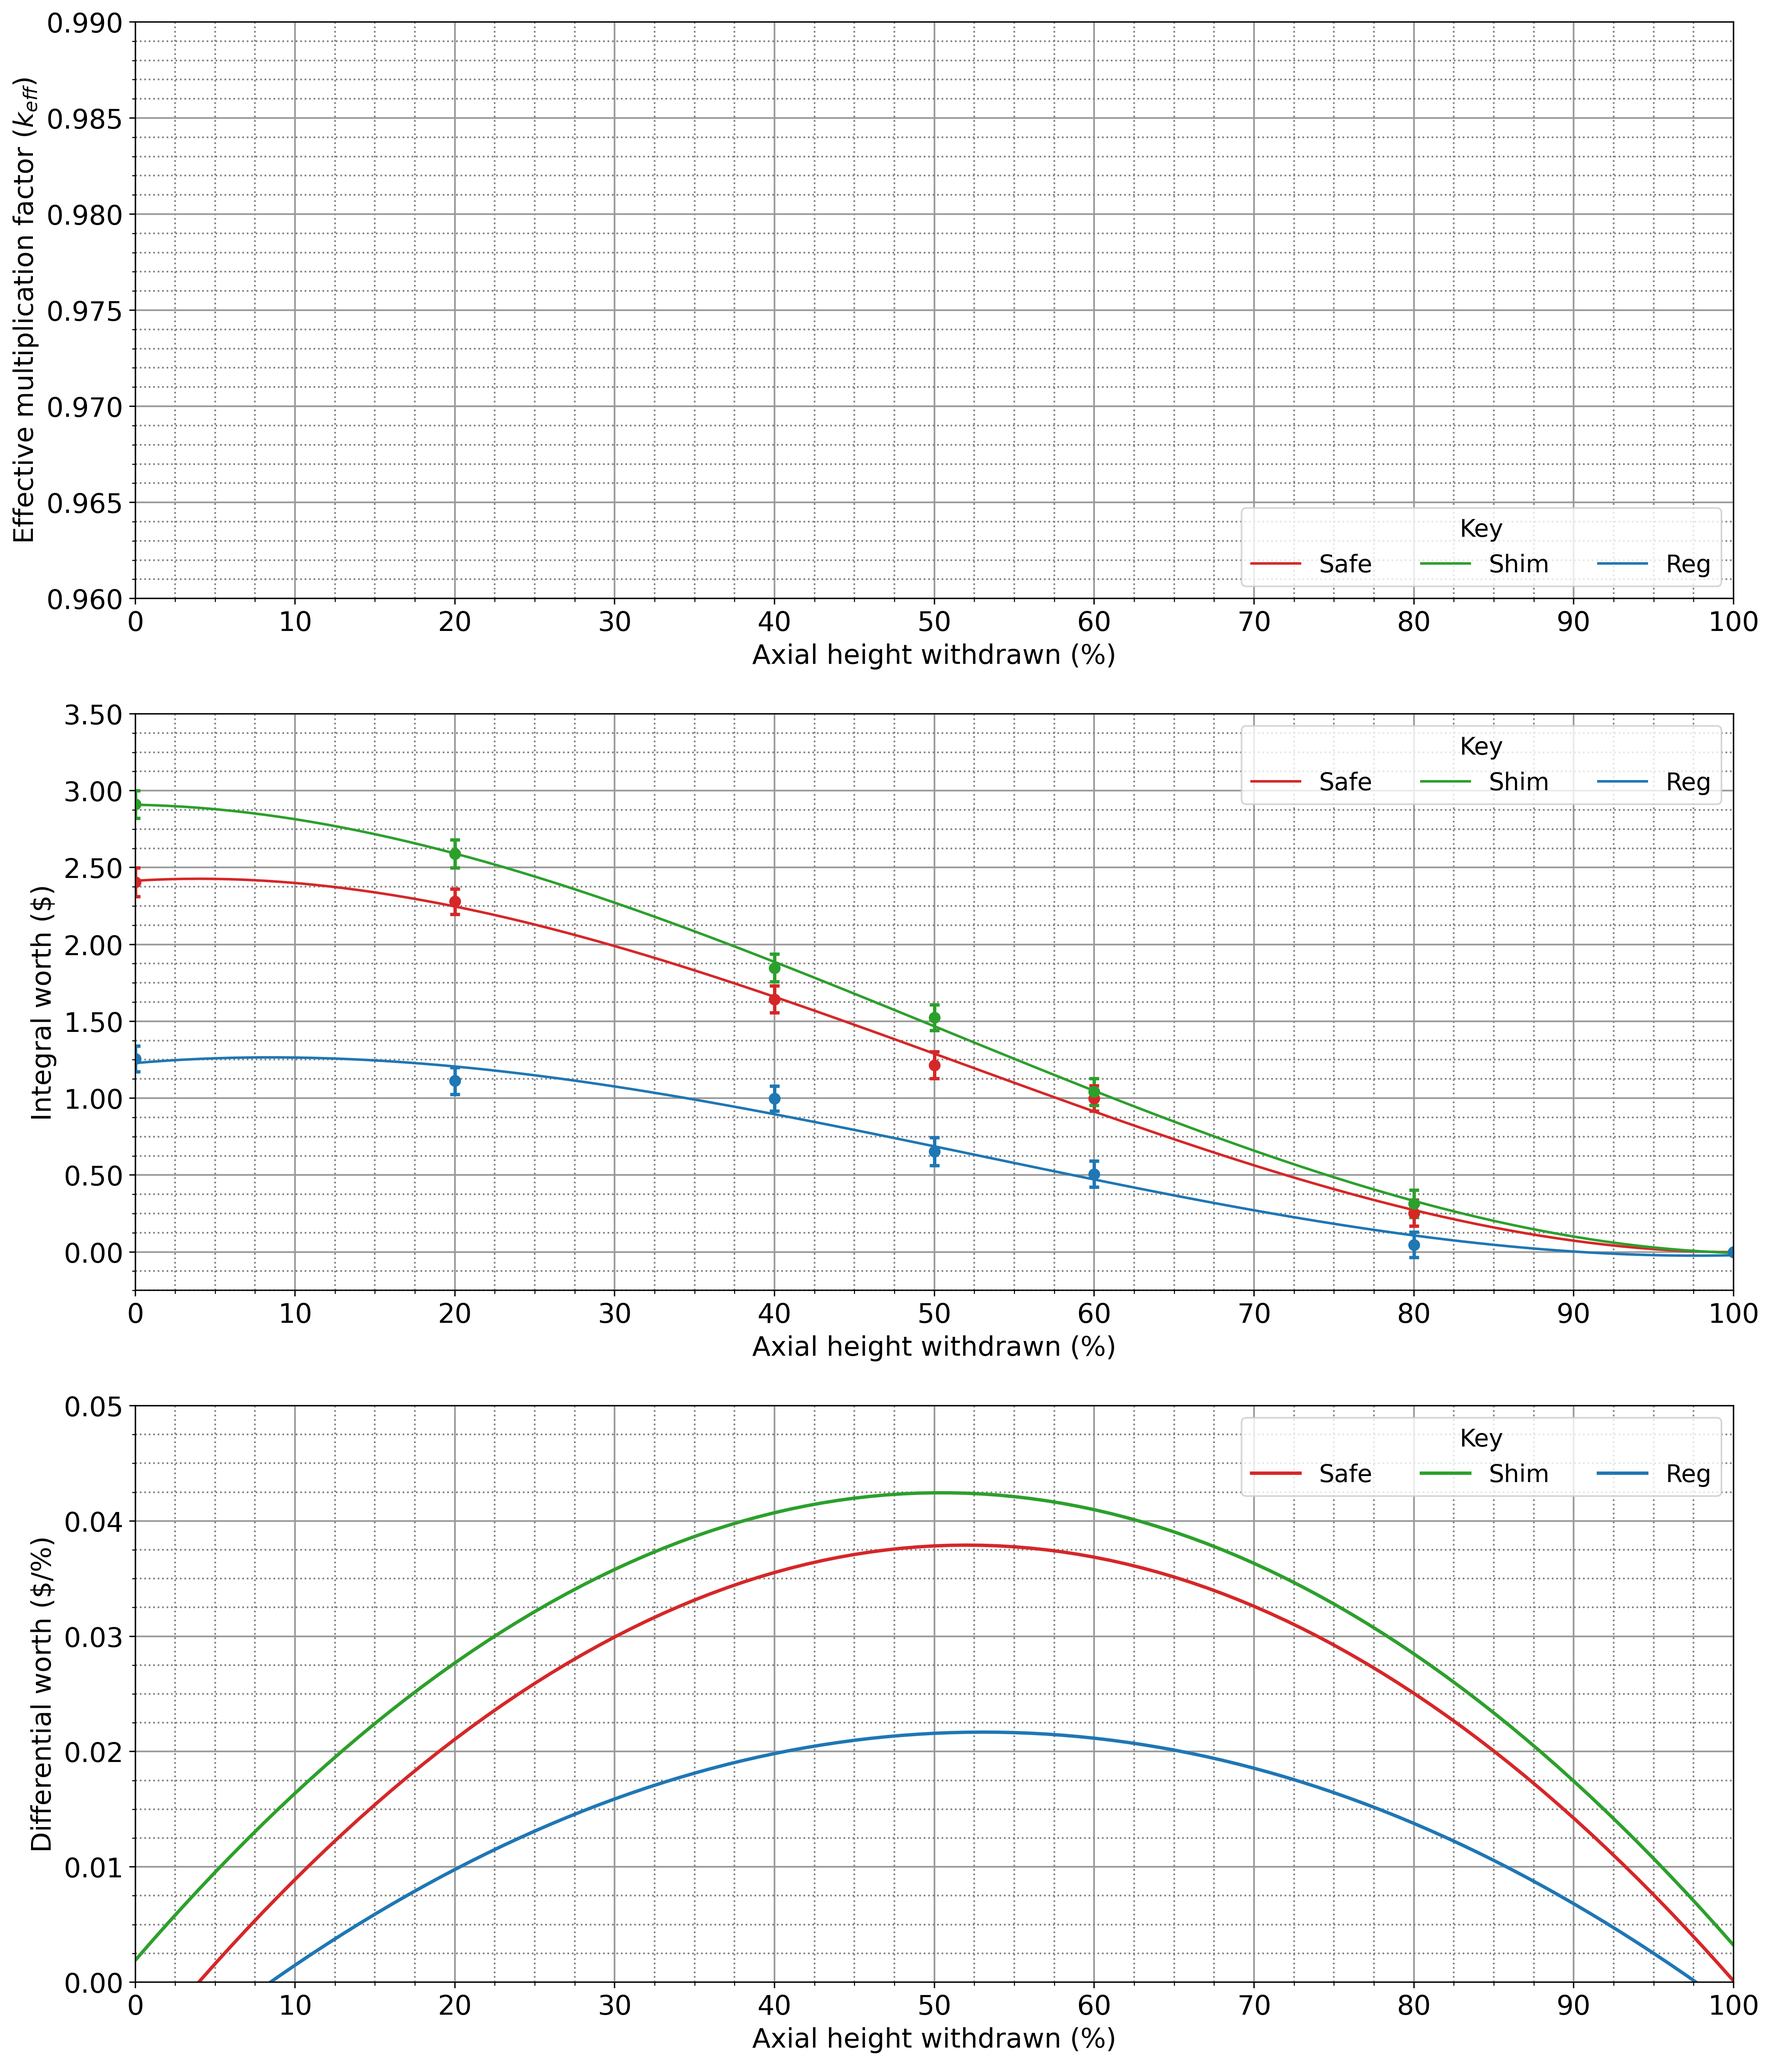
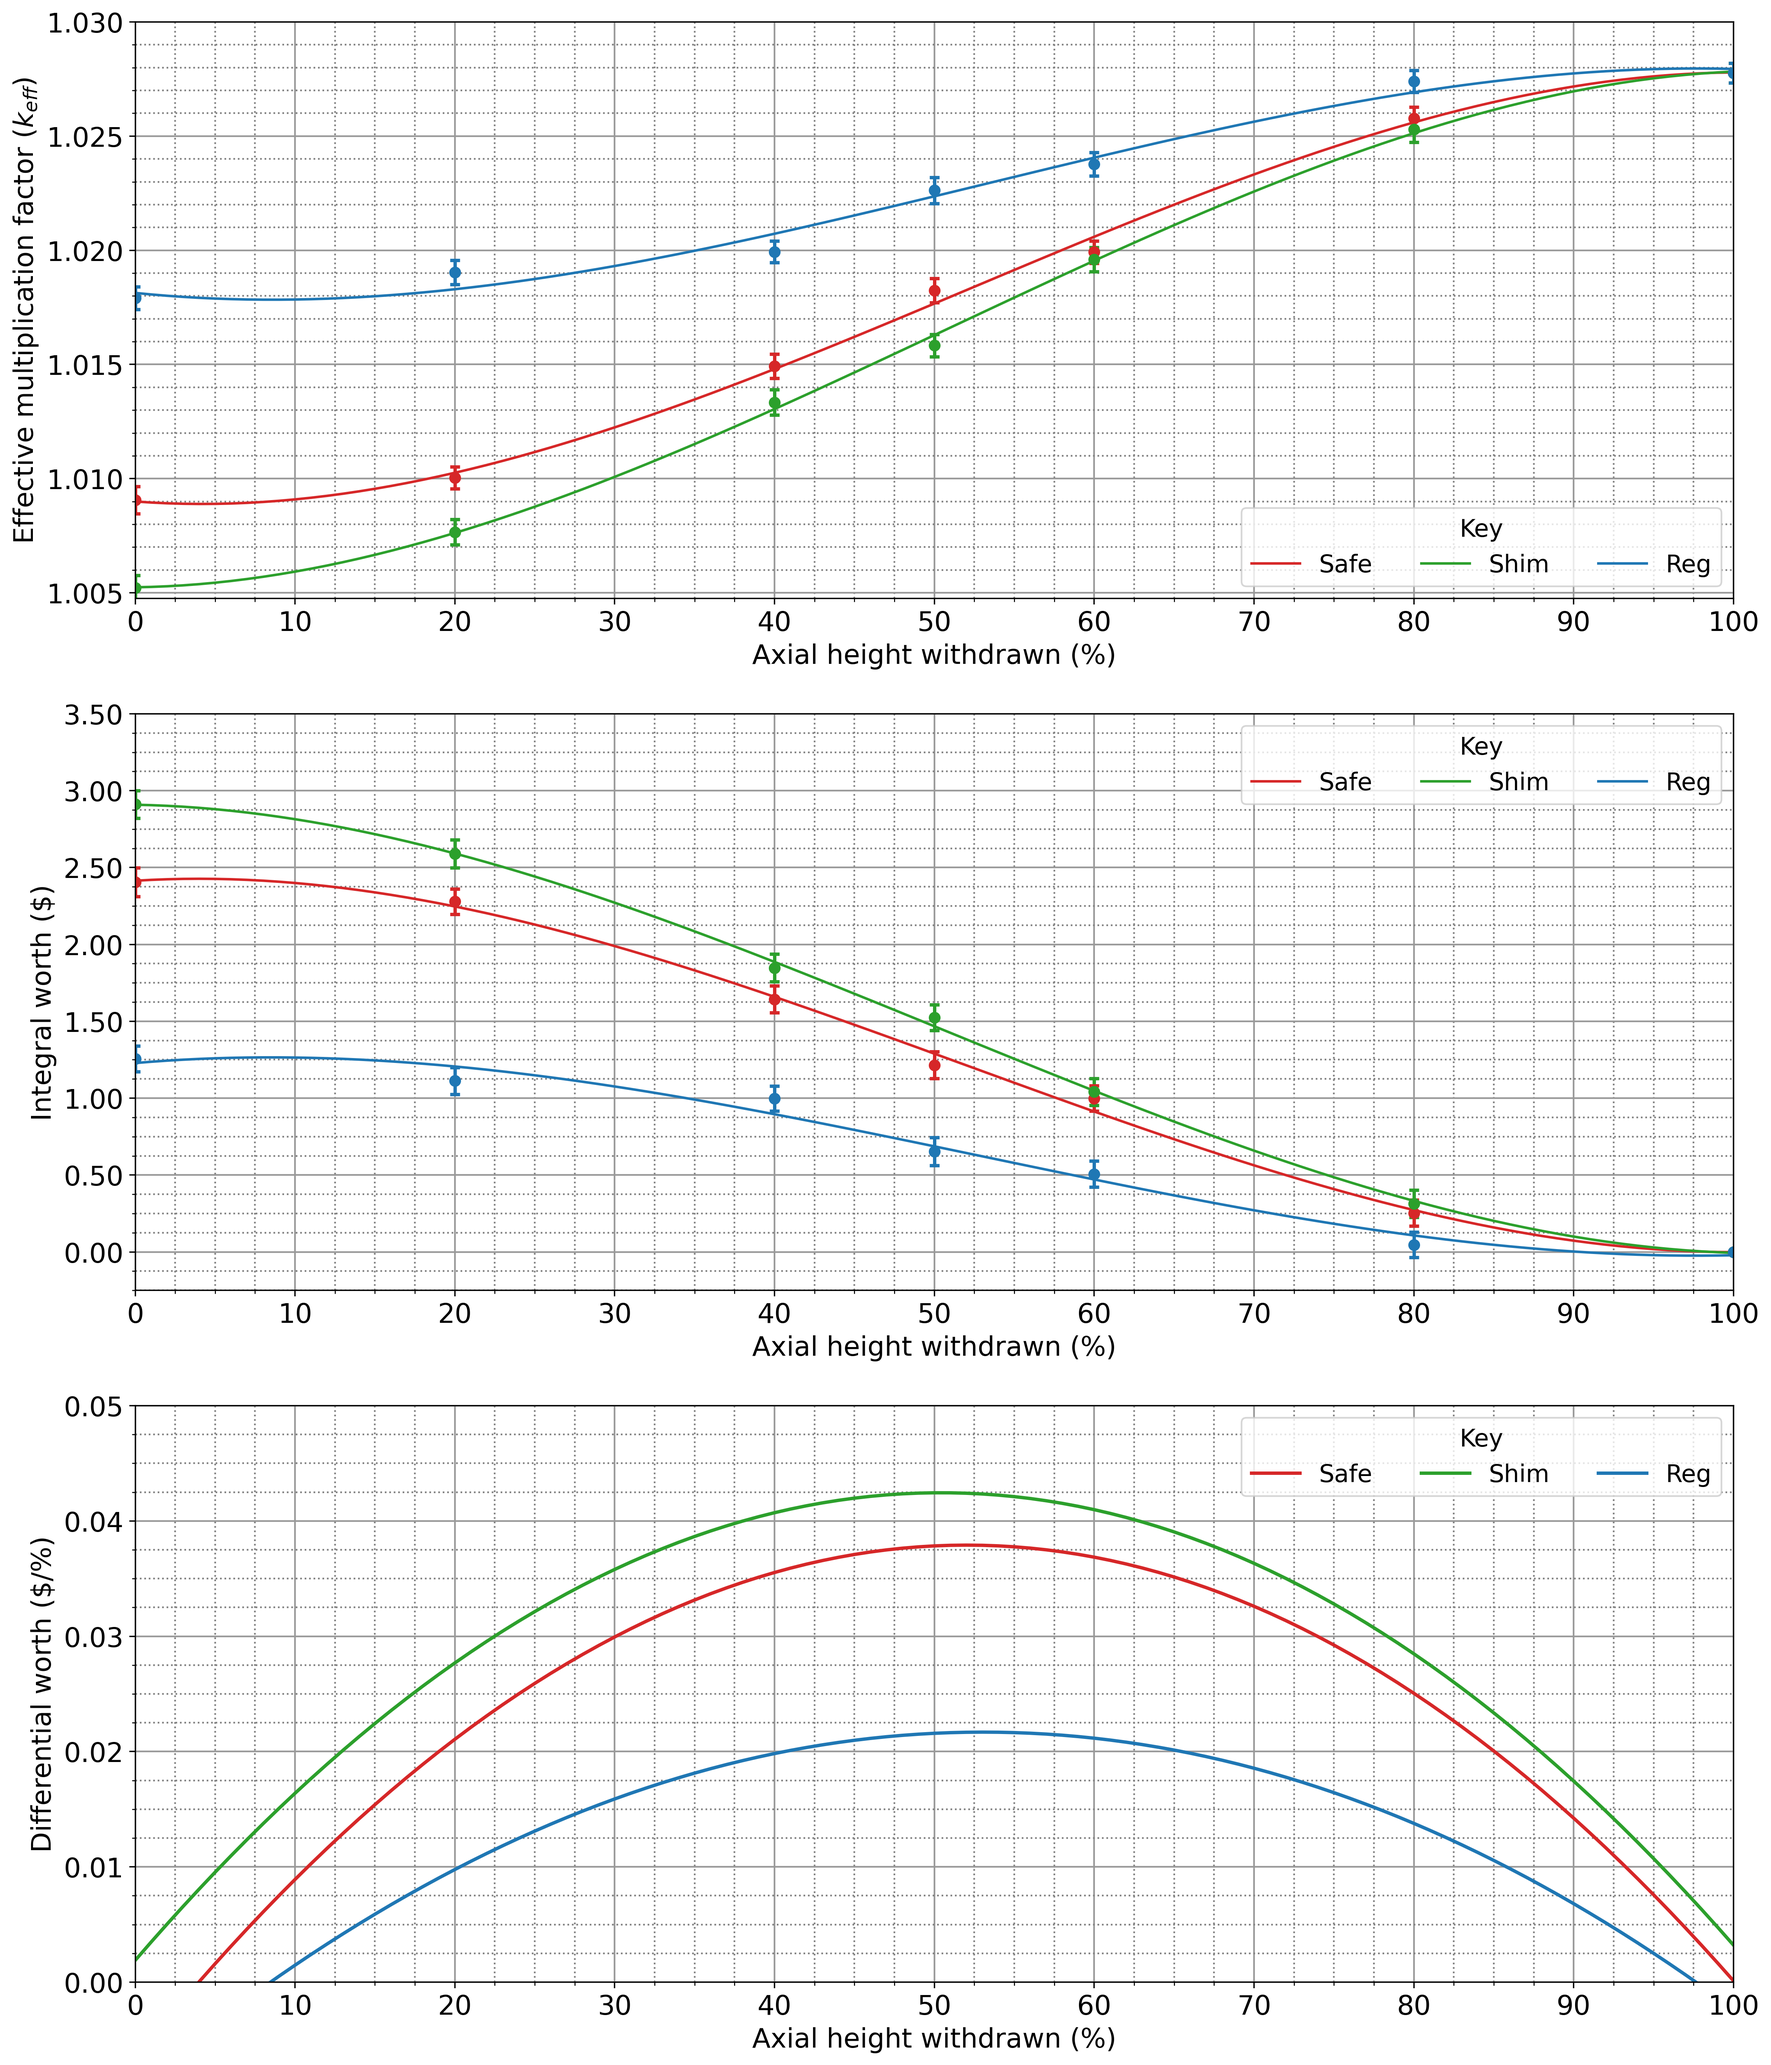
updated keff plot axes

Changed region(s): [[0.0312, 0.0311, 0.9665, 0.2803], [0.0312, 0.2803, 0.0624, 0.3114], [0.0312, 0.0311, 0.0624, 0.0623]]

diff --git a/rc.py b/rc.py
@@ -367,7 +367,7 @@ def plot_rodcal_data(keff_csv_name,rho_csv_name,figure_name):
     
     # Keff plot settings
     ax_keff.set_xlim([0,100])
-    ax_keff.set_ylim([0.96,0.99])
+    ax_keff.set_ylim([1.00475,1.03])
 
     ax_keff.xaxis.set_major_locator(MultipleLocator(10))
     ax_keff.yaxis.set_major_locator(MultipleLocator(0.005))
